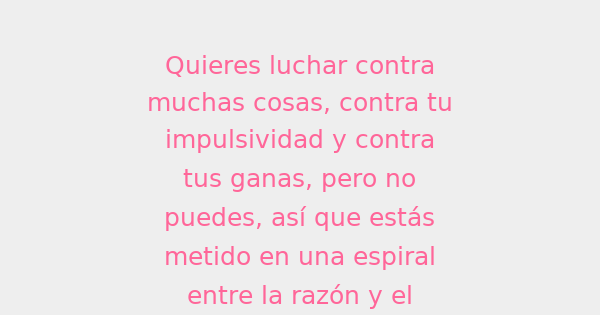
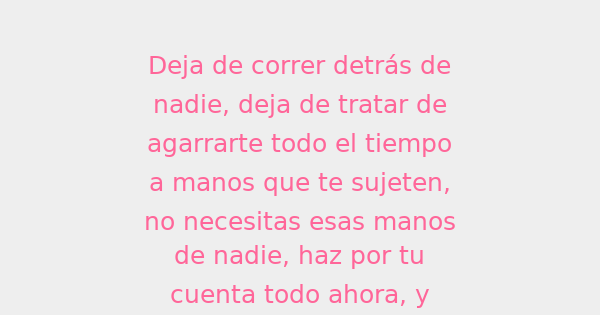
cfg

diff --git a/_posts/2015-2-7-Signos-del-Zodiaco.md b/_posts/2015-2-7-Signos-del-Zodiaco.md
@@ -1,14 +1,14 @@
 ---
 layout: horoscopo_de_hoy
-title: Hóroscopo de hoy 12 de abril 2026
-description: Horóscopos del dia de hoy 12 de abril 2026 Astrologia, Horoscopos univision todos los signos del zodiaco. Esperanza Gracia.
+title: Hóroscopo de hoy 13 de abril 2026
+description: Horóscopos del dia de hoy 13 de abril 2026 Astrologia, Horoscopos univision todos los signos del zodiaco. Esperanza Gracia.
 permalink: /horoscopo-de-hoy/
 redirect_from: /2015/02/signos-del-zodiaco.html
 ogimg: /images/diario.png
 sitemap:
  priority: 1
  changefreq: 'daily'
- lastmod: 2026-04-12
+ lastmod: 2026-04-13
 ---
-Marte aumenta tus avances estratégicos al encontrarse en el fino y dedicado Virgo. Es buen momento para alabar un poco tus propias acciones. ¿Cuál es el punto de hacer algo perfectamente si nadie más se entera de ello? Cuando Mercurio cuadra a Plutón, trata de evitar buscar una respuesta complicada cuando una sencilla está justo en frente de ti.
+Intenta pensar de manera diferente para celebrar la entrada de Mercurio a Acuario. Mientras Marte forme sextil con Júpiter, inventa nuevas combinaciones derivadas de cosas viejas. La noche está llena de sentimentales emociones cuando la Luna en Tauro forma sextil con Neptuno. Es una oportunidad para descubrir lo que alguien siente, emocionalmente hablando.
 ¿Quieres saber como sera tu dia? Enterate que tienen los astros preparado para vos y organiza tu dia segun tu horoscopo diario gratis. Elejí tu signo mas abajo y podras conocer como es tu hóroscopo en el amor, trabajo, vida personal.